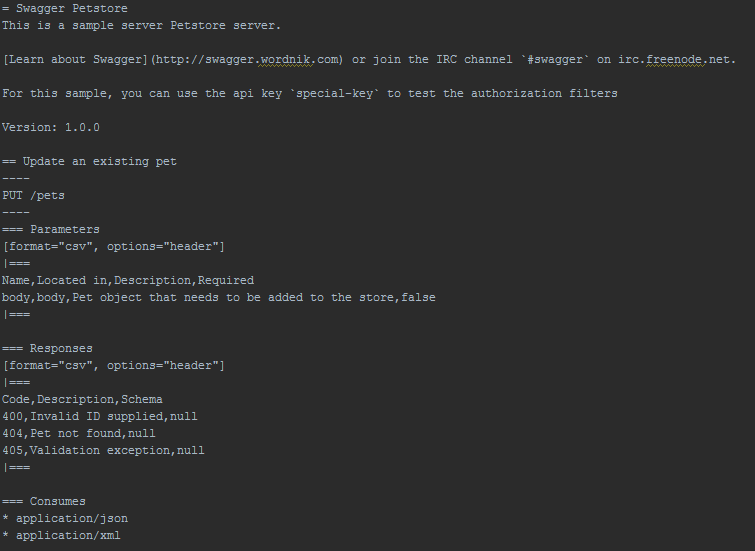
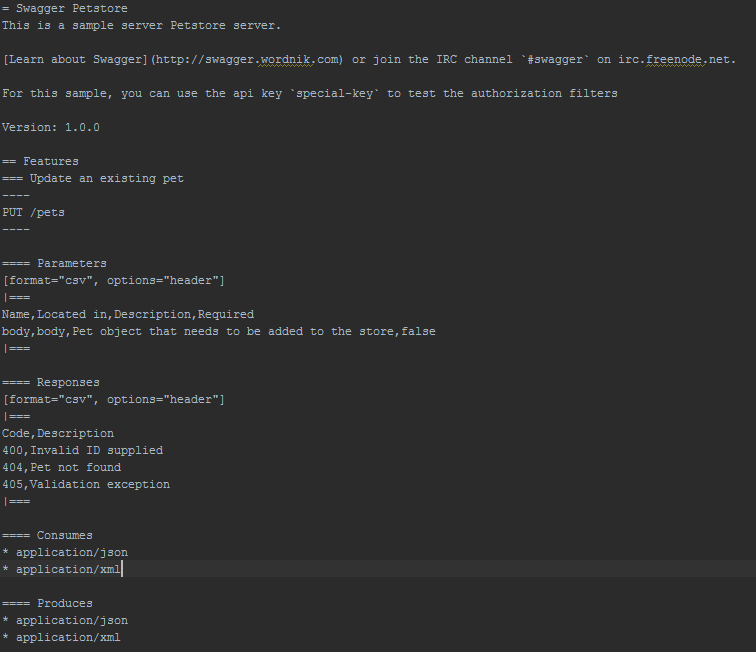
Updated documentation

Changed region(s): [[0.0, 0.4011, 0.5788, 0.9873], [0.0, 0.0, 0.9748, 0.3702]]

diff --git a/src/main/java/io/swagger2markup/Swagger2MarkupConverter.java b/src/main/java/io/swagger2markup/Swagger2MarkupConverter.java
@@ -29,7 +29,7 @@ import java.util.Map;
 public class Swagger2MarkupConverter {
     private static final Logger logger = LoggerFactory.getLogger(Swagger2MarkupConverter.class);
     private static final String VERSION = "Version: ";
-    private static final String SUMMARY = "Summary";
+    private static final String FEATURES = "Features";
     private static final String DESCRIPTION = "Description";
     private static final String PARAMETERS = "Parameters";
     private static final String PRODUCES = "Produces";
@@ -77,13 +77,16 @@ public class Swagger2MarkupConverter {
     }
 
     private void paths(Map<String, Path> paths) {
-        for(Map.Entry<String, Path> entry : paths.entrySet()){
-            Path path = entry.getValue();
-            path("GET", entry.getKey(), path.getGet());
-            path("PUT", entry.getKey(), path.getPut());
-            path("DELETE", entry.getKey(), path.getDelete());
-            path("POST", entry.getKey(), path.getPost());
-            path("PATCH", entry.getKey(), path.getPatch());
+        if(MapUtils.isNotEmpty(paths)) {
+            documentBuilder.sectionTitleLevel1(FEATURES);
+            for (Map.Entry<String, Path> entry : paths.entrySet()) {
+                Path path = entry.getValue();
+                path("GET", entry.getKey(), path.getGet());
+                path("PUT", entry.getKey(), path.getPut());
+                path("DELETE", entry.getKey(), path.getDelete());
+                path("POST", entry.getKey(), path.getPost());
+                path("PATCH", entry.getKey(), path.getPatch());
+            }
         }
     }
 
@@ -109,7 +112,7 @@ public class Swagger2MarkupConverter {
     private void pathTitle(String httpMethod, String resourcePath, Operation operation) {
         String summary = operation.getSummary();
         if(StringUtils.isNotBlank(summary)) {
-            documentBuilder.sectionTitleLevel1(operation.getSummary());
+            documentBuilder.sectionTitleLevel2(operation.getSummary());
             documentBuilder.listing(httpMethod + " " + resourcePath);
         }else{
             documentBuilder.sectionTitleLevel1(httpMethod + " " + resourcePath);
@@ -119,7 +122,7 @@ public class Swagger2MarkupConverter {
     private void descriptionSection(Operation operation) {
         String description = operation.getDescription();
         if(StringUtils.isNotBlank(description)){
-            documentBuilder.sectionTitleLevel2(DESCRIPTION);
+            documentBuilder.sectionTitleLevel3(DESCRIPTION);
             documentBuilder.paragraph(description);
         }
     }
@@ -127,7 +130,7 @@ public class Swagger2MarkupConverter {
     private void consumesSection(Operation operation) {
         List<String> consumes = operation.getConsumes();
         if(CollectionUtils.isNotEmpty(consumes)){
-            documentBuilder.sectionTitleLevel2(CONSUMES);
+            documentBuilder.sectionTitleLevel3(CONSUMES);
             documentBuilder.unorderedList(consumes);
         }
 
@@ -136,7 +139,7 @@ public class Swagger2MarkupConverter {
     private void producesSection(Operation operation) {
         List<String> produces = operation.getProduces();
         if(CollectionUtils.isNotEmpty(produces)){
-            documentBuilder.sectionTitleLevel2(PRODUCES);
+            documentBuilder.sectionTitleLevel3(PRODUCES);
             documentBuilder.unorderedList(produces);
         }
     }
@@ -154,7 +157,7 @@ public class Swagger2MarkupConverter {
                         append(parameter.getRequired());
                 csvContent.add(rowBuilder.toString());
             }
-            documentBuilder.sectionTitleLevel2(PARAMETERS);
+            documentBuilder.sectionTitleLevel3(PARAMETERS);
             documentBuilder.tableWithHeaderRow(csvContent);
         }
     }
@@ -171,7 +174,7 @@ public class Swagger2MarkupConverter {
                         append(response.getDescription());
                 csvContent.add(rowBuilder.toString());
             }
-            documentBuilder.sectionTitleLevel2(RESPONSES);
+            documentBuilder.sectionTitleLevel3(RESPONSES);
             documentBuilder.tableWithHeaderRow(csvContent);
         }
     }

diff --git a/src/docs/markdown/swagger.md b/src/docs/markdown/swagger.md
@@ -7,7 +7,8 @@ For this sample, you can use the api key `special-key` to test the authorization
 
 Version: 1.0.0
 
-## Update an existing pet
+## Features
+### Update an existing pet
 ```
 PUT /pets
 ```
@@ -34,7 +35,7 @@ PUT /pets
 * application/json
 * application/xml
 
-## Add a new pet to the store
+### Add a new pet to the store
 ```
 POST /pets
 ```
@@ -59,7 +60,7 @@ POST /pets
 * application/json
 * application/xml
 
-## Finds Pets by status
+### Finds Pets by status
 ```
 GET /pets/findByStatus
 ```
@@ -85,7 +86,7 @@ Multiple status values can be provided with comma seperated strings
 * application/json
 * application/xml
 
-## Finds Pets by tags
+### Finds Pets by tags
 ```
 GET /pets/findByTags
 ```
@@ -111,7 +112,7 @@ Muliple tags can be provided with comma seperated strings. Use tag1, tag2, tag3 
 * application/json
 * application/xml
 
-## Find pet by ID
+### Find pet by ID
 ```
 GET /pets/{petId}
 ```
@@ -138,7 +139,7 @@ Returns a pet when ID < 10.  ID > 10 or nonintegers will simulate API error cond
 * application/json
 * application/xml
 
-## Deletes a pet
+### Deletes a pet
 ```
 DELETE /pets/{petId}
 ```
@@ -160,7 +161,7 @@ DELETE /pets/{petId}
 * application/json
 * application/xml
 
-## Updates a pet in the store with form data
+### Updates a pet in the store with form data
 ```
 POST /pets/{petId}
 ```
@@ -186,7 +187,7 @@ POST /pets/{petId}
 * application/json
 * application/xml
 
-## Place an order for a pet
+### Place an order for a pet
 ```
 POST /stores/order
 ```
@@ -208,7 +209,7 @@ POST /stores/order
 * application/json
 * application/xml
 
-## Find purchase order by ID
+### Find purchase order by ID
 ```
 GET /stores/order/{orderId}
 ```
@@ -235,7 +236,7 @@ For valid response try integer IDs with value <= 5 or > 10. Other values will ge
 * application/json
 * application/xml
 
-## Delete purchase order by ID
+### Delete purchase order by ID
 ```
 DELETE /stores/order/{orderId}
 ```
@@ -261,7 +262,7 @@ For valid response try integer IDs with value < 1000. Anything above 1000 or non
 * application/json
 * application/xml
 
-## Create user
+### Create user
 ```
 POST /users
 ```
@@ -286,7 +287,7 @@ This can only be done by the logged in user.
 * application/json
 * application/xml
 
-## Creates list of users with given input array
+### Creates list of users with given input array
 ```
 POST /users/createWithArray
 ```
@@ -307,7 +308,7 @@ POST /users/createWithArray
 * application/json
 * application/xml
 
-## Creates list of users with given input array
+### Creates list of users with given input array
 ```
 POST /users/createWithList
 ```
@@ -328,7 +329,7 @@ POST /users/createWithList
 * application/json
 * application/xml
 
-## Logs user into the system
+### Logs user into the system
 ```
 GET /users/login
 ```
@@ -351,7 +352,7 @@ GET /users/login
 * application/json
 * application/xml
 
-## Logs out current logged in user session
+### Logs out current logged in user session
 ```
 GET /users/logout
 ```
@@ -366,7 +367,7 @@ GET /users/logout
 * application/json
 * application/xml
 
-## Get user by user name
+### Get user by user name
 ```
 GET /users/{username}
 ```
@@ -389,7 +390,7 @@ GET /users/{username}
 * application/json
 * application/xml
 
-## Updated user
+### Updated user
 ```
 PUT /users/{username}
 ```
@@ -416,7 +417,7 @@ This can only be done by the logged in user.
 * application/json
 * application/xml
 
-## Delete user
+### Delete user
 ```
 DELETE /users/{username}
 ```
